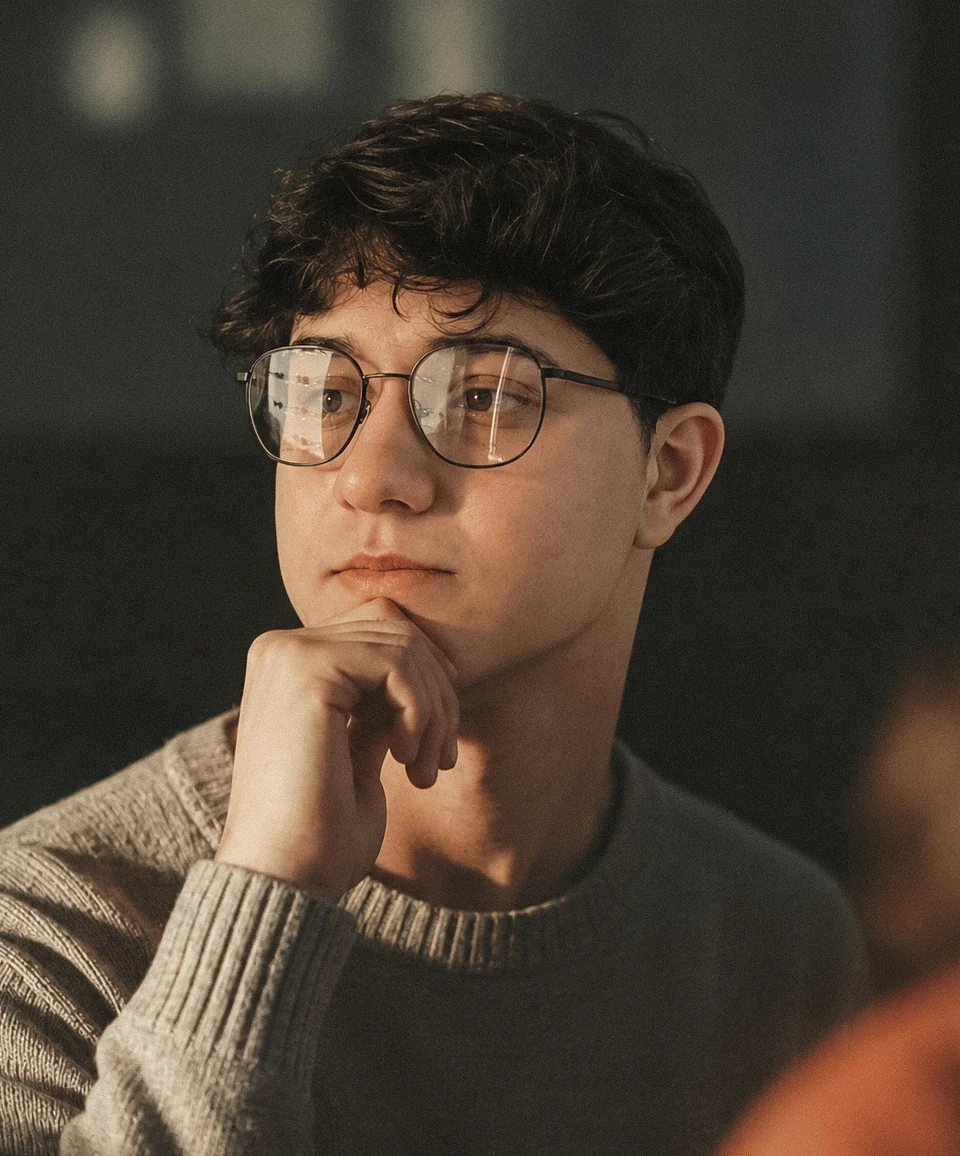
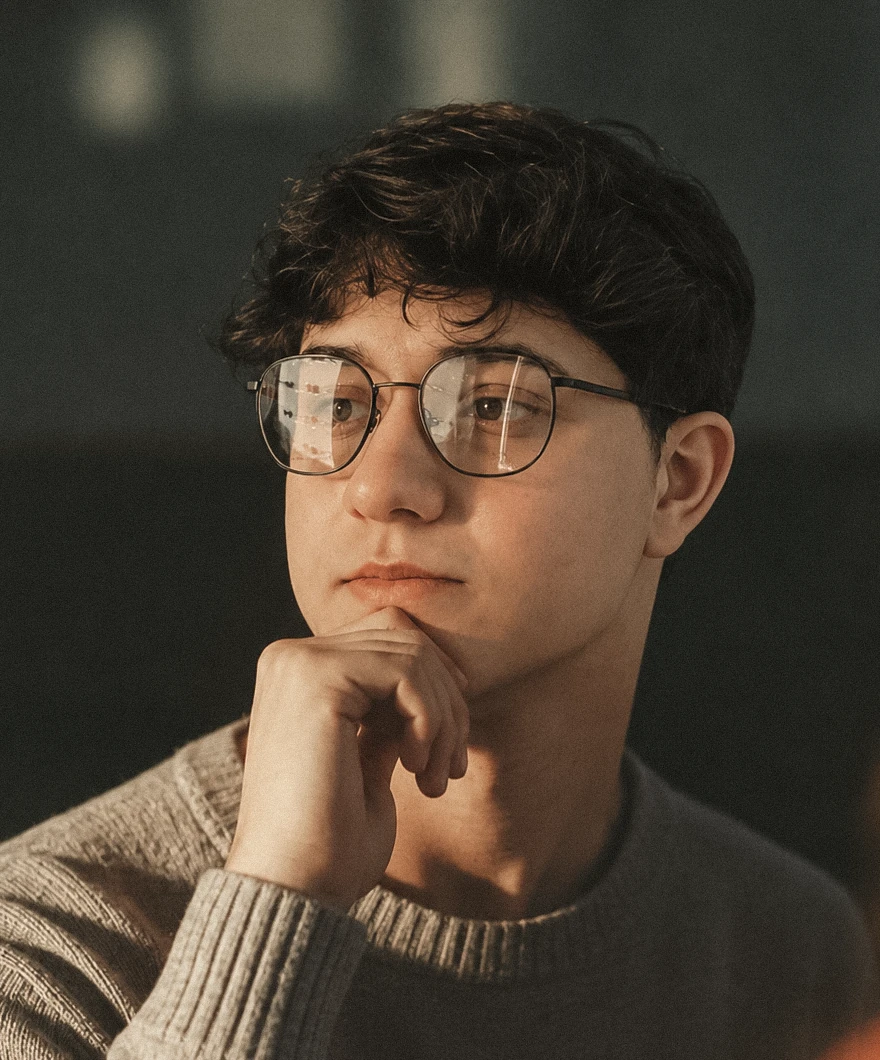
feat: center the studio team faces at the same eye line

diff --git a/src/components/sections/studio-hero-section.tsx b/src/components/sections/studio-hero-section.tsx
@@ -15,6 +15,8 @@ import { asset } from "@/utils/asset";
 import { cn } from "@/utils/cn";
 
 const MEMBER_COUNT = TEAM_MEMBERS.length;
+/** Parallax travel of the photos, in percent of their height. */
+const PHOTO_DRIFT = 3;
 /** Photo hover: how far it pans toward the cursor (px) and how much it zooms. */
 const PAN = 18;
 const PAN_ZOOM = 1.05;
@@ -187,11 +189,17 @@ export function StudioHeroSection() {
               )}
             >
               <div data-slide-inner className="absolute inset-0">
+                {/* A shorter drift than the default, so its zoom keeps the
+                    room above the head. A box wider than the photo (tablets,
+                    wide screens) crops it near the top to keep the hair; the
+                    thin band of a phone held sideways centres on the eyes. */}
                 <ParallaxImage
                   src={person.photo}
                   alt=""
                   priority={personIndex === 0}
                   sizes="(min-width: 1024px) 47vw, 100vw"
+                  amount={PHOTO_DRIFT}
+                  imageClassName="object-[50%_20%] max-lg:landscape:object-[50%_35%]"
                   settle="load"
                 />
               </div>

diff --git a/src/constants/pages.ts b/src/constants/pages.ts
@@ -34,7 +34,11 @@ export const PROJECT_PAGE = {
   end: "END",
 } as const;
 
-/** Figma team photo of a member, cropped to the 897×1080 photo box. */
+/**
+ * Figma team photo of a member, cropped from the Figma original to the
+ * 897×1080 photo box with the face centred, the eyes at 38% of the height and
+ * the heads about the same size, so the photos line up as they swap.
+ */
 const teamPhoto = (slug: string) => asset(`/images/studio/team-${slug}.webp`);
 
 /**
